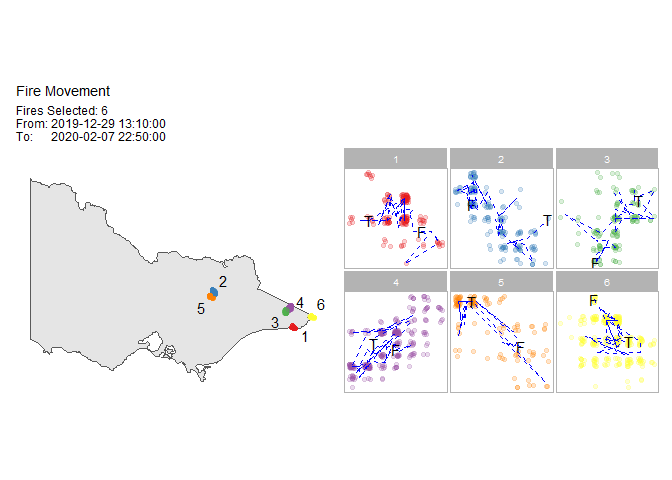
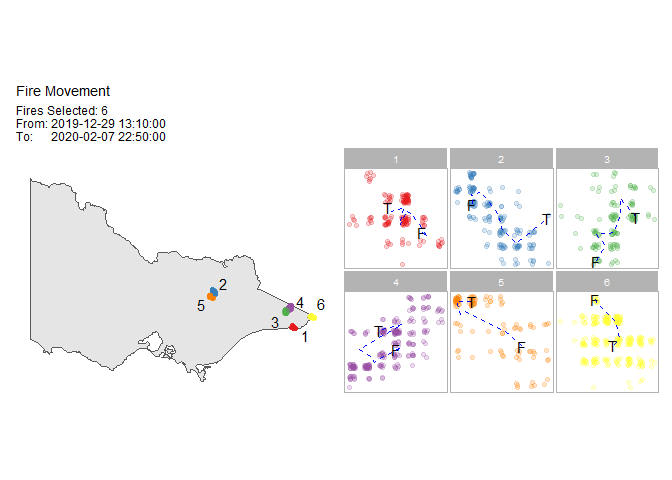
update readme

diff --git a/README.md b/README.md
@@ -172,7 +172,7 @@ result$hotspots[1:10,]
 Plot of the result.
 
 ``` r
-plot(result)
+plot(result, bg = plot_vic_map())
 ```
 
 <img src="man/figures/README-unnamed-chunk-9-1.png" width="70%" height="70%" />
@@ -187,7 +187,7 @@ plot(result, cluster = c(1,2,3,4))
 plot(result,
      type = "mov",
      cluster = 1:6,
-     step = 1,
+     step = 12,
      hotspot = TRUE,
      bg = plot_vic_map())
 ```
